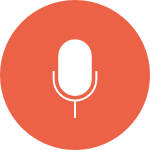
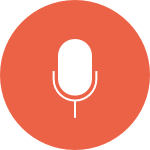
fixed: record animation

diff --git a/buddy/GLAudioPowerIndicatorView.m b/buddy/GLAudioPowerIndicatorView.m
@@ -43,6 +43,10 @@
     [self addSubview:self.waveAnimationView];
     
     self.micIconView = [[UIImageView alloc] initWithImage:[UIImage imageNamed:@"record_mic_icon.png"]];
+    [self.micIconView.layer setShadowOffset:CGSizeMake(0, 1)];
+    [self.micIconView.layer setShadowRadius:1.0];
+    [self.micIconView.layer setShadowColor:[UIColor grayColor].CGColor];
+    [self.micIconView.layer setShadowOpacity:1];
     [self addSubview:self.micIconView];
 }
 

diff --git a/buddy/GLRecordViewController.m b/buddy/GLRecordViewController.m
@@ -28,7 +28,7 @@
 	// Do any additional setup after loading the view.
     self.audioManager = [[GLAudioManager alloc] init];
     
-    self.powerIndicatorView = [[GLAudioPowerIndicatorView alloc] initWithFrame:CGRectMake(35, 250, 250, 250)];
+    self.powerIndicatorView = [[GLAudioPowerIndicatorView alloc] initWithFrame:CGRectMake(35, 300, 250, 250)];
     [self.view addSubview:self.powerIndicatorView];
 
 }
